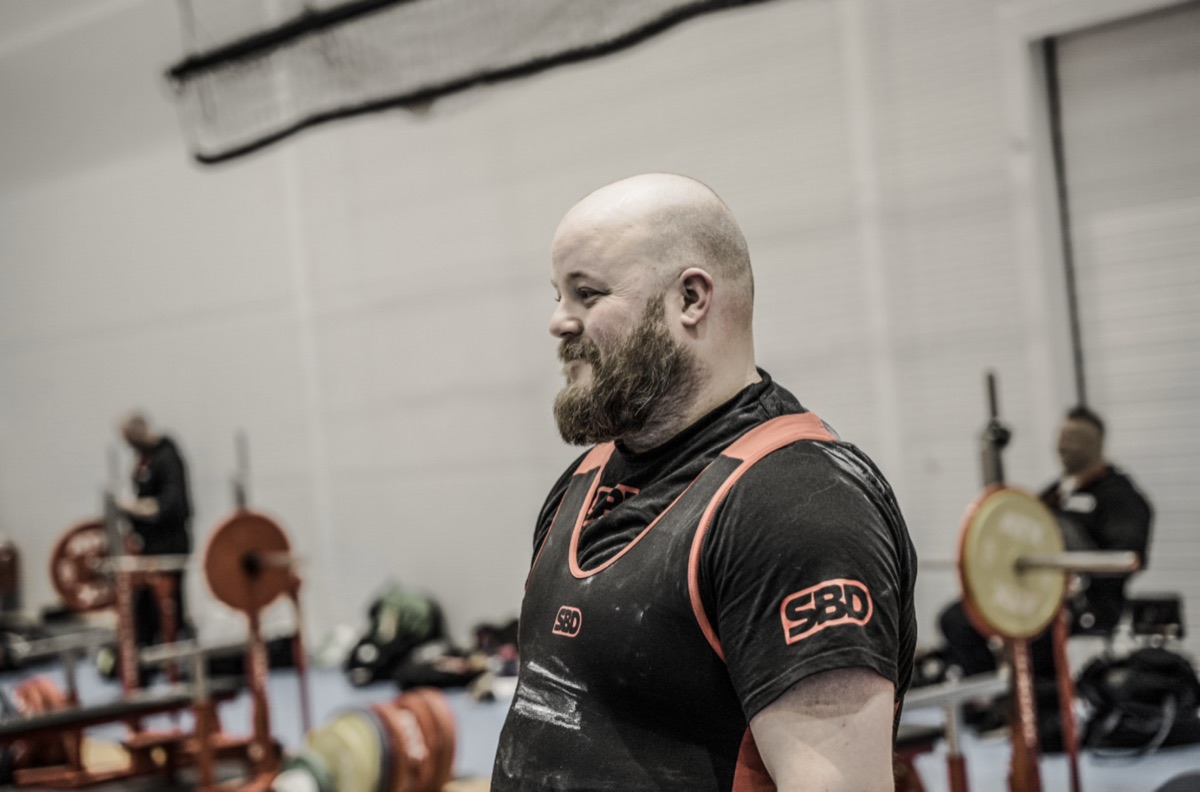
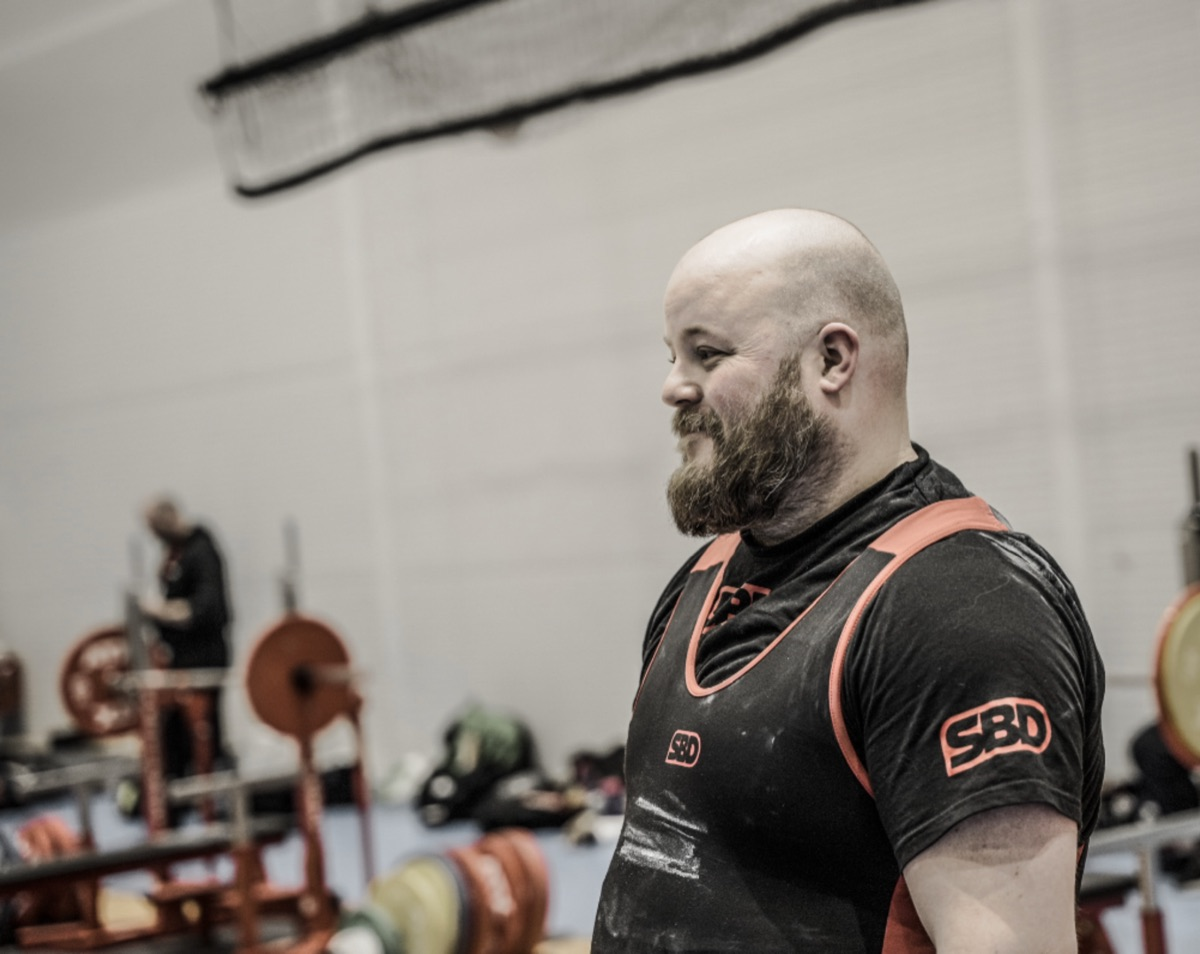
Forsiden: portrettet klippet strammere
Høyre del av bildet er klippet bort i selve fila, og bildet vises
kvadratisk.

diff --git a/index.html b/index.html
@@ -161,7 +161,7 @@
             <a class="rad" href="/treningssystem.html">
               <figure class="foto"><img src="/bilder/treningssystem-800.jpg" width="800" height="546" alt="" loading="lazy" /></figure>
               <span class="rad__ord">
-                <span class="rad__navn">Treningssystem</span>
+                <span class="rad__navn">Tæpp og tren</span>
                 <span class="rad__tekst">Veiledning rett på apparatet.</span>
               </span>
               <svg class="pil" viewBox="0 0 24 24" fill="none" stroke="currentColor" stroke-width="2" stroke-linecap="round" stroke-linejoin="round" aria-hidden="true" focusable="false"><path d="M5 12h14M13 6l6 6-6 6"/></svg>
@@ -173,8 +173,8 @@
 
     <section class="bolk bolk--tett lys" aria-labelledby="bak-title">
       <div class="ramme par par--bilde-hoyre">
-        <figure class="foto foto--kant foto--sh">
-          <img src="/bilder/alexander-2026-1200.jpg" srcset="/bilder/alexander-2026-700.jpg 700w, /bilder/alexander-2026-1200.jpg 1200w" sizes="(min-width: 900px) 560px, 100vw" width="1200" height="792" alt="" loading="lazy" />
+        <figure class="foto foto--kant foto--sh foto--kvadrat" style="--fokus: 100% 50%">
+          <img src="/bilder/alexander-2026-1200.jpg" srcset="/bilder/alexander-2026-700.jpg 700w, /bilder/alexander-2026-1200.jpg 1200w" sizes="(min-width: 900px) 560px, 100vw" width="1200" height="954" alt="" loading="lazy" />
         </figure>
         <div class="par__tekst">
           <h2 class="tittel" id="bak-title">Bak My Strongest Side</h2>
@@ -272,7 +272,7 @@
   </footer>
 
   <script src="/menu.js?v=115" defer></script>
-  <script src="/components/footer-links.js?v=114" defer></script>
+  <script src="/components/footer-links.js?v=115" defer></script>
 
   <script
     data-consent-category="marketing"

diff --git a/css/myss-2026.css b/css/myss-2026.css
@@ -821,6 +821,11 @@ textarea {
   object-position: var(--fokus, 50% 50%);
 }
 
+/* Kvadratisk utsnitt */
+.foto--kvadrat {
+  aspect-ratio: 1 / 1;
+}
+
 /* Svart-hvitt bilde */
 .foto--sh img {
   filter: grayscale(1);
